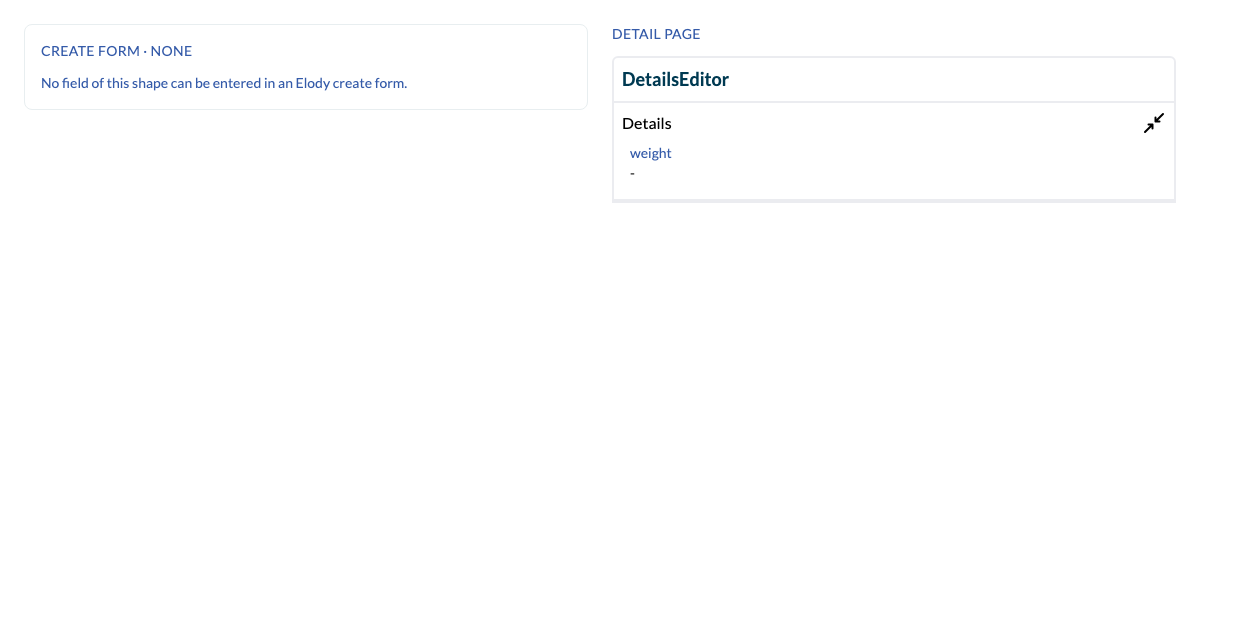
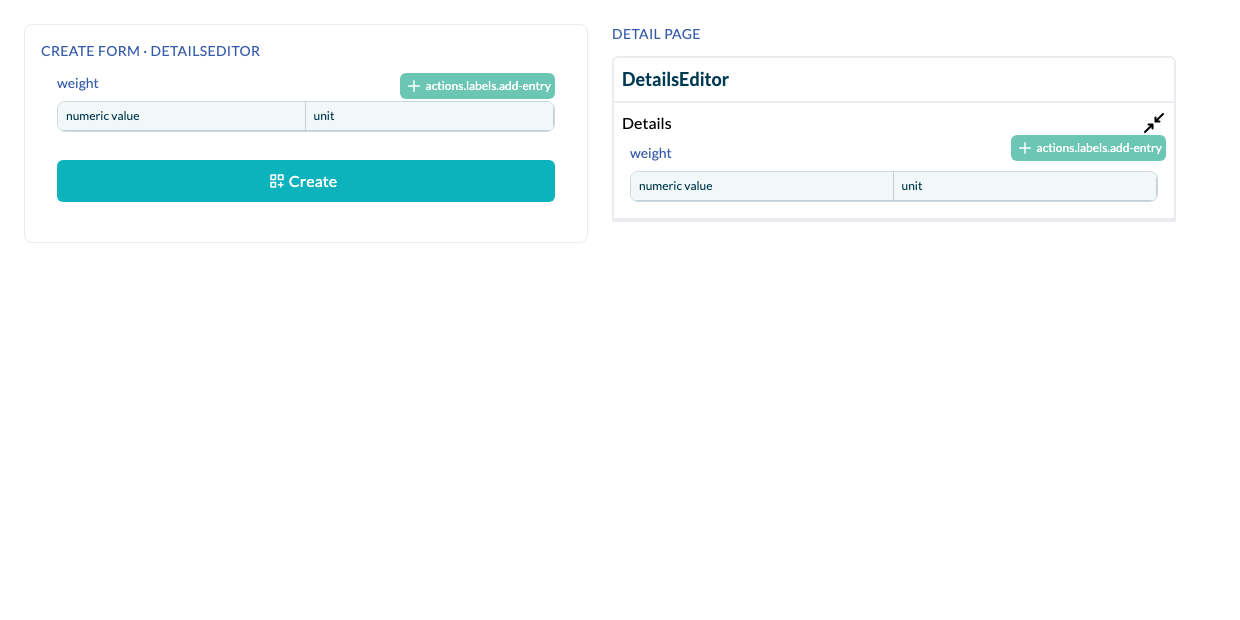
docs: shacl-ui showcase with multilingual fields and nested shapes

diff --git a/docs/services/elody-frontend/shacl-ui/examples.md b/docs/services/elody-frontend/shacl-ui/examples.md
@@ -37,7 +37,7 @@ changes.
 | [18](#example-18-booleaneditor) | BooleanEditor | `BooleanEditor` | <Badge type="tip" text="Rendered" /> |
 | [19](#example-19-datepickereditor) | DatePickerEditor | `DatePickerEditor` | <Badge type="tip" text="Rendered" /> |
 | [20](#example-20-datetimepickereditor) | DateTimePickerEditor | `DateTimePickerEditor` | <Badge type="tip" text="Rendered" /> |
-| [21](#example-21-detailseditor) | DetailsEditor | `DetailsEditor` | <Badge type="warning" text="Rendered in part" /> |
+| [21](#example-21-detailseditor) | DetailsEditor | `DetailsEditor` | <Badge type="tip" text="Rendered" /> |
 | [22](#example-22-enumselecteditor) | EnumSelectEditor | `EnumSelectEditor` | <Badge type="tip" text="Rendered" /> |
 | [23](#example-23-instancesselecteditor) | InstancesSelectEditor | `InstancesSelectEditor` | <Badge type="tip" text="Rendered" /> |
 | [24](#example-24-irieditor) | IRIEditor | `IRIEditor` | <Badge type="tip" text="Rendered" /> |
@@ -3335,8 +3335,8 @@ fragment minimalSpecExample16 on BaseEntity {
     "type": "dropdownMultiselectMetadata",
     "options": [
       {
-        "label": "n3-4353",
-        "value": "n3-4353"
+        "label": "n3-4453",
+        "value": "n3-4453"
       }
     ]
   }
@@ -4086,14 +4086,13 @@ fragment minimalSpecExample20 on BaseEntity {
 
 ## 21 · DetailsEditor {#example-21-detailseditor}
 
-<Badge type="warning" text="Rendered in part" /> Spec section [`DetailsEditor`](https://w3c.github.io/data-shapes/shacl12-ui/#DetailsEditor)
+<Badge type="tip" text="Rendered" /> Spec section [`DetailsEditor`](https://w3c.github.io/data-shapes/shacl12-ui/#DetailsEditor)
 
 ![DetailsEditor rendered by Elody](/images/shacl-ui/21-DetailsEditor.png)
 
 **What Elody did with it**
 
 - "weight" is used as the card title (the shapes declare no shui:LabelRole)
-- "weight": shui:DetailsEditor has no create-form field in Elody; left out of the form
 
 ::: details SHACL UI shapes (from the spec)
 ````turtle
@@ -4178,6 +4177,7 @@ ui:example21
         elody:panel ui:example21-details ] ;
       elody:size elody:Width100 ] ] ;
   elody:documentName "SpecExample21" ;
+  elody:form ui:example21-create ;
   elody:viewMode [ elody:mode elody:ListView ] .
 
 ex:Product-weight
@@ -4193,6 +4193,43 @@ ex:Product-weight
   shui:editor shui:DetailsEditor ;
   shui:propertyRole shui:LabelRole ;
   shui:viewer shui:DetailsViewer .
+
+ex:ValueWithWeight
+  a sh:NodeShape ;
+  rdfs:label "Value with weight" ;
+  sh:property ex:ValueWithWeight-numericValue , ex:ValueWithWeight-unit .
+
+ex:ValueWithWeight-numericValue
+  a sh:PropertyShape ;
+  sh:path ex:numericValue ;
+  sh:name "numeric value" ;
+  sh:datatype xsd:decimal ;
+  sh:maxCount 1 ;
+  sh:minCount 1 .
+
+ex:ValueWithWeight-unit
+  a sh:PropertyShape ;
+  sh:path ex:unit ;
+  sh:name "unit" ;
+  sh:class <http://qudt.org/schema/qudt/Unit> ;
+  sh:maxCount 1 ;
+  sh:minCount 1 ;
+  sh:node
+    [ rdfs:label "Permissible values must have quantity kind Mass." ;
+    sh:property
+      [ sh:path <http://qudt.org/schema/qudt/hasQuantityKind> ;
+      sh:hasValue <http://qudt.org/vocab/quantitykind/Mass> ] ] .
+
+ui:example21-create
+  a elody:Form ;
+  rdfs:label "DetailsEditor" ;
+  elody:queryName "SpecExample21CreateForm" ;
+  elody:shape [ sh:property ex:Product-weight ] ;
+  elody:submit
+    [ rdfs:label "actions.labels.create" ;
+    elody:actionQuery "CreateEntity" ;
+    elody:creationType "BaseEntity" ;
+    elody:icon "Create" ] .
 
 ui:example21-details
   a sh:PropertyGroup ;
@@ -4250,6 +4287,9 @@ fragment minimalSpecExample21 on BaseEntity {
               weight: metaData {
                 label(input: "weight")
                 key(input: "weight")
+                inputField(type: specExample21WeightField) {
+                  ...inputfield
+                }
               }
             }
           }
@@ -4275,6 +4315,67 @@ fragment minimalSpecExample21 on BaseEntity {
       }
     }
   }
+
+  query SpecExample21CreateForm {
+    GetDynamicForm {
+      label(input: "DetailsEditor")
+      name: formTab {
+        formFields {
+          weight: metaData {
+            label(input: "weight")
+            key(input: "weight")
+            inputField(type: specExample21WeightField) {
+              ...inputfield
+            }
+          }
+          createAction: action {
+            label(input: "actions.labels.create")
+            icon(input: Create)
+            actionType(input: submit)
+            actionQuery(input: "CreateEntity")
+            creationType(input: BaseEntity)
+            showsFormErrors(input: true)
+          }
+        }
+      }
+    }
+  }
+````
+:::
+::: details Generated custom input fields
+````json
+{
+  "specExample21WeightField": {
+    "type": "inputFieldWithSubFields",
+    "isMetadataField": true,
+    "subFields": [
+      {
+        "label": "numeric value",
+        "key": "numericValue",
+        "inputField": {
+          "type": "number",
+          "validation": {
+            "value": [
+              "required"
+            ]
+          }
+        }
+      },
+      {
+        "label": "unit",
+        "key": "unit",
+        "inputField": {
+          "type": "text",
+          "validation": {
+            "value": [
+              "required"
+            ]
+          }
+        }
+      }
+    ]
+  }
+}
 ````
 :::
 
@@ -5825,6 +5926,7 @@ fragment minimalSpecExample30 on BaseEntity {
       prefLabel: metaData {
         label(input: "prefLabel")
         key(input: "prefLabel")
+        isMultilingual(input: true)
       }
     }
     ...minimalBaseEntity
@@ -5851,6 +5953,7 @@ fragment minimalSpecExample30 on BaseEntity {
               prefLabel: metaData {
                 label(input: "prefLabel")
                 key(input: "prefLabel")
+                isMultilingual(input: true)
               }
             }
           }
@@ -5885,6 +5988,7 @@ fragment minimalSpecExample30 on BaseEntity {
           prefLabel: metaData {
             label(input: "prefLabel")
             key(input: "prefLabel")
+            isMultilingual(input: true)
             inputField(type: baseTextField) {
               ...inputfield
             }

diff --git a/docs/services/elody-frontend/shacl-ui/index.md b/docs/services/elody-frontend/shacl-ui/index.md
@@ -43,6 +43,8 @@ and checked in CI.
 |---|---|---|
 | Widget choice | `shui:editor`, `shui:viewer`, the scoring system | The spec's scoring system, run on the W3C working group's own scoring graph. An explicit `shui:editor` wins (score 40); otherwise the widget follows from `sh:datatype`, `sh:in`, `sh:class`, `sh:node`, `sh:nodeKind` and `sh:singleLine`. |
 | Editors | text field, text area, text with language, number, boolean, date, date and time, IRI, enum select, instances select, auto complete, details | Each maps to an Elody input type. `sh:in` and `sh:class` become generated custom input fields: a dropdown with the listed options, or a relation dropdown on the class. |
+| Language-tagged text | `rdf:langString`, `shui:TextFieldWithLangEditor`, `shui:TextAreaWithLangEditor` | One multilingual field (`isMultilingual`): the detail page edits and shows it per language, the create form stores the text in the interface language. The client needs the `supportsMultilingualMetadataEditing` feature. |
+| Nested shapes | `sh:node` with `shui:DetailsEditor` | A field with sub-fields (`inputFieldWithSubFields`): the value is a list of objects under the metadata key, one column per property shape of the nested node shape, in the create form and on the detail page. A related resource (`sh:class`) inside a nested value is entered as its identifier. |
 | Viewers | literal, hyperlink, language string, details | Elody's metadata display and its link formatter. Elody's own pill and regular-expression formatters are `shui:Viewer` instances in the `elody:` ontology. |
 | Labels | `sh:name` per language, `rdfs:label` on groups | Label texts go to the client's translation bundles under an Elody translation key. Without a label, the local name of `sh:path` is shown, as the spec prescribes. |
 | Ordering | `sh:order`, `sh:group`, `shui:defaultOrder` | Groups and ungrouped properties in one sequence, unordered last, ties by label; `shui:defaultOrder` from the global configuration. |
@@ -72,8 +74,8 @@ subset and ignores the rest.
 
 | Result | Examples |
 |---|---|
-| Rendered | 21 |
-| Rendered in part | 9 |
+| Rendered | 22 |
+| Rendered in part | 8 |
 | Not rendered | 4 |
 
 Every generated document is valid against the platform schema, and all of them
